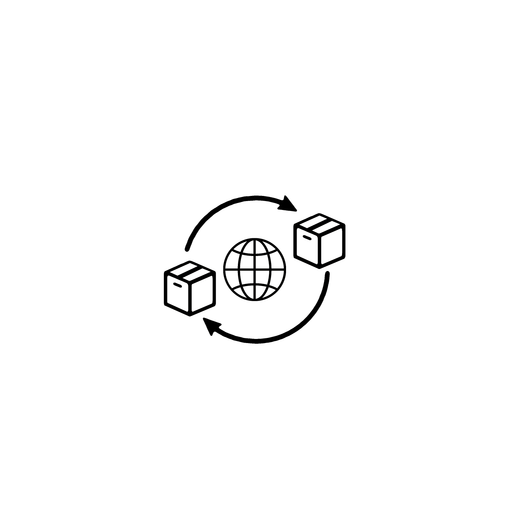
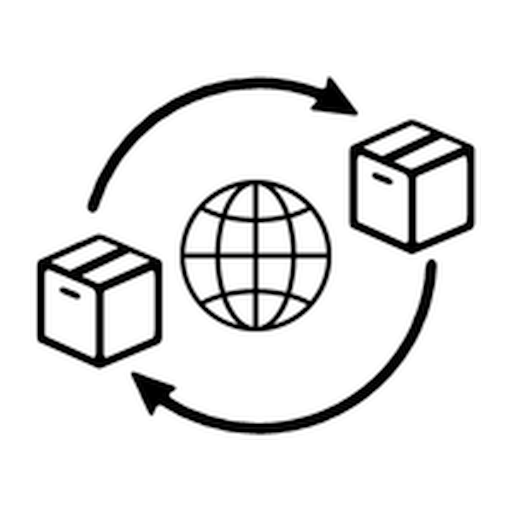
feat: manifest dinamico por ambiente y ajuste de padding en iconos
Sirve site.webmanifest via /api con background_color verde esmeralda
en dev-portal y negro en produccion. Recorta el padding excesivo de
los iconos PWA/favicon para que el logo llene mas el lienzo.

Changed region(s): [[0.0625, 0.125, 0.9375, 0.875]]

diff --git a/src/pages/api/site.webmanifest.ts b/src/pages/api/site.webmanifest.ts
@@ -1,0 +1,29 @@
+import type { NextApiRequest, NextApiResponse } from 'next';
+
+export default function handler(req: NextApiRequest, res: NextApiResponse) {
+  const host = req.headers.host ?? '';
+  const isDev = host.includes('dev-portal');
+  const backgroundColor = isDev ? '#10B981' : '#000000';
+
+  const manifest = {
+    id: '/',
+    name: 'Magastore Backoffice',
+    short_name: 'Magastore',
+    description: 'Backoffice de Magastore: paquetes, órdenes de envío, facturación y seguimiento.',
+    start_url: '/',
+    scope: '/',
+    display: 'standalone',
+    orientation: 'any',
+    lang: 'es',
+    icons: [
+      { src: '/icon-192.png', sizes: '192x192', type: 'image/png' },
+      { src: '/icon-512.png', sizes: '512x512', type: 'image/png' },
+      { src: '/icon-512.png', sizes: '512x512', type: 'image/png', purpose: 'maskable' },
+    ],
+    theme_color: '#111111',
+    background_color: backgroundColor,
+  };
+
+  res.setHeader('Content-Type', 'application/manifest+json');
+  res.status(200).json(manifest);
+}

diff --git a/src/pages/_document.tsx b/src/pages/_document.tsx
@@ -14,7 +14,7 @@ class MyDocument extends Document {
           <link rel="icon" type="image/png" sizes="48x48" href="/favicon-48.png" />
           <link rel="apple-touch-icon" sizes="180x180" href="/apple-touch-icon.png" />
 
-          <link rel="manifest" href="/site.webmanifest" />
+          <link rel="manifest" href="/api/site.webmanifest" />
 
           {/* Brand Theme Color (alineado a paleta Magastore) */}
           <meta name="theme-color" content="#111111" />
